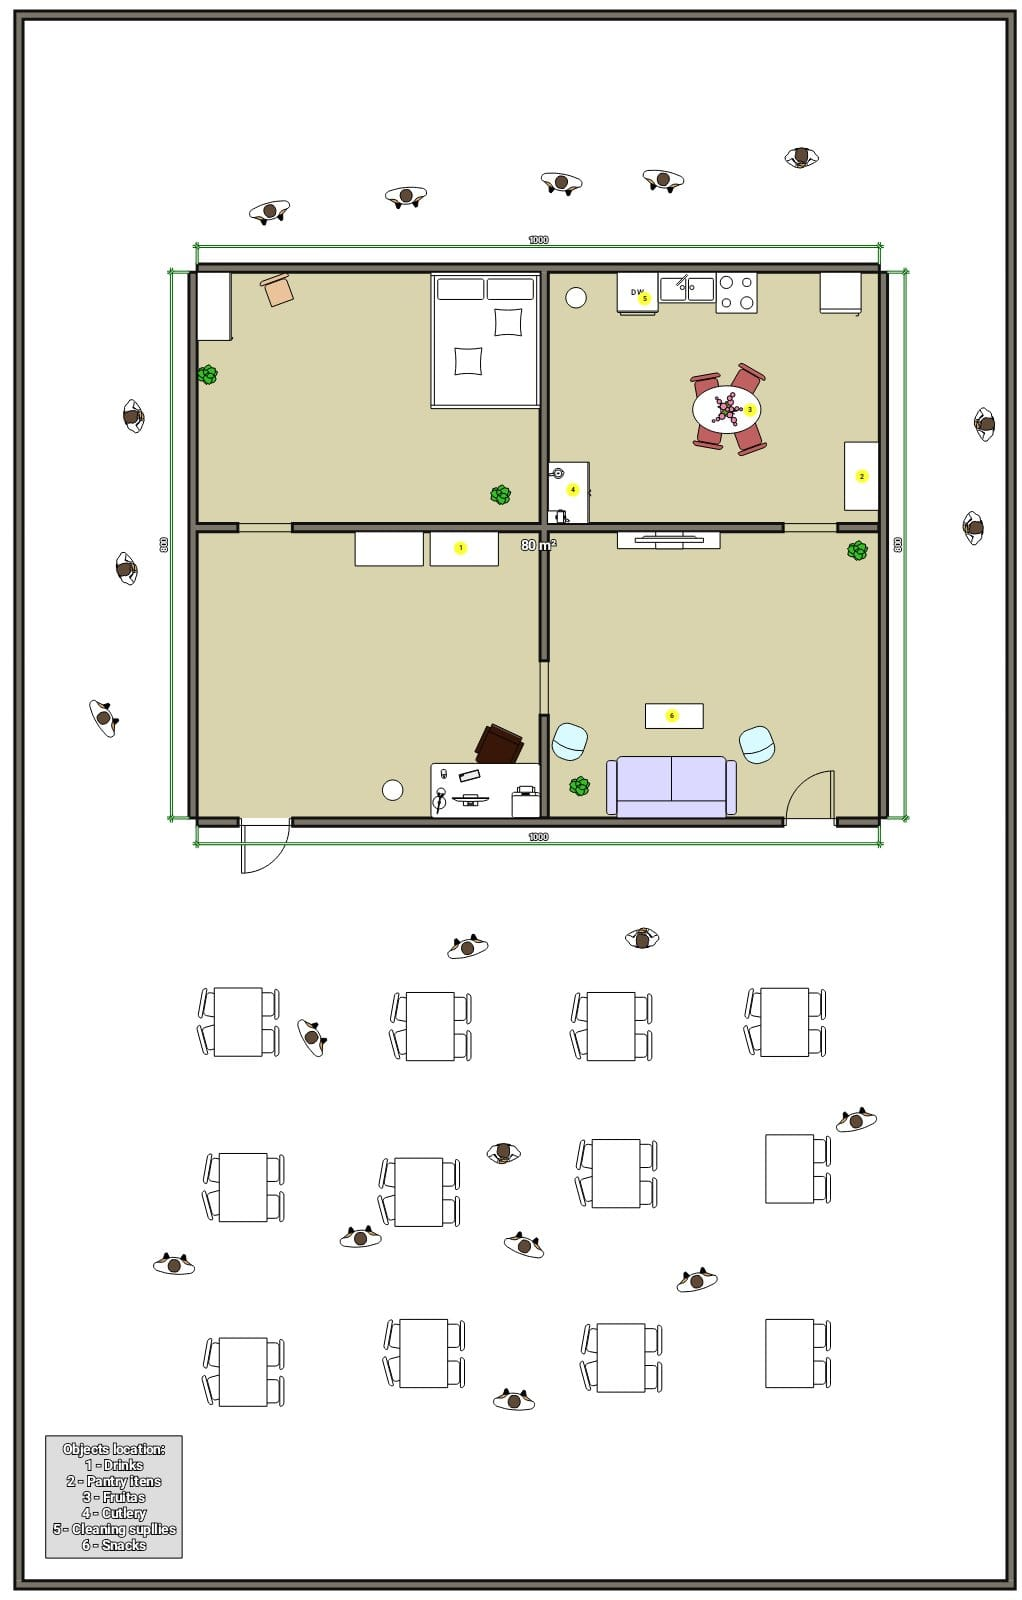
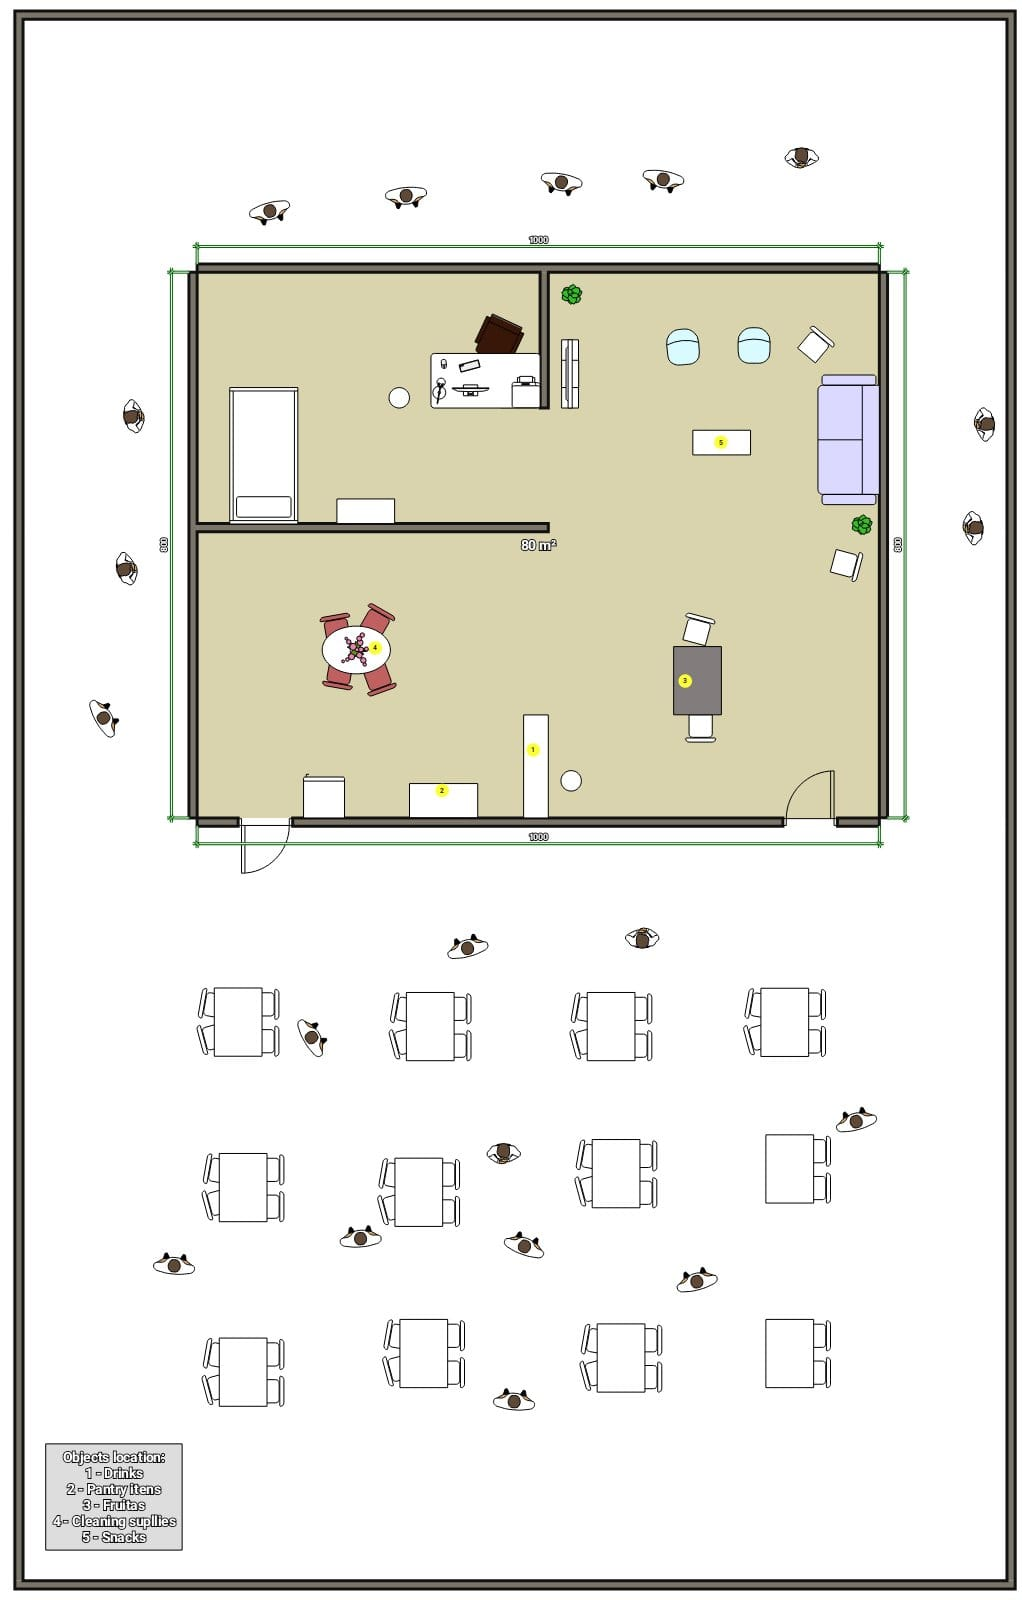
update images and readme

diff --git a/README.md b/README.md
@@ -27,12 +27,12 @@ Table of contents:
 | 14:00 | Warm-up        | PSWR           | S1 - MOR       | S2 - HK        | S2 - PH        | Award ceremony |
 | 14:30 | Warm-up        | PSWR           | S1 - MOR       | S2 - HK        | S2 - PH        | Award ceremony |
 | 15:00 | Warm-up        | PSWR           | S1 - MOR       |                |                | Award ceremony |
-| 15:30 | Warm-up        | PSWR           | S1 - MOR       | S2 - HK        | S2 - PH        | Award ceremony |
+| 15:30 | Warm-up        | Inspection     | S1 - MOR       | S2 - HK        | S2 - PH        | Award ceremony |
 | 16:00 | Warm-up        | Inspection     |                | S2 - HK        | S2 - PH        |                |
-| 16:30 | Warm-up        | Inspection     |                |                |                |                |
-| 17:00 | Warm-up        | Inspection     | S1 - PR        | S2 - HK        | S2 - Retry     |                |
-| 17:30 | Warm-up        | Inspection     | S1 - PR        | S2 - HK        | S2 - Retry     |                |
-| 18:00 | Team meating 1 | Team meating 2 | S1 - PR        |                |                |                |
+| 16:30 | Warm-up        | Inspection.    |                |                |                |                |
+| 17:00 | Warm-up        | Team meating 2 | S1 - PR        | S2 - HK        | S2 - Retry     |                |
+| 17:30 | Warm-up        |                | S1 - PR        | S2 - HK        | S2 - Retry     |                |
+| 18:00 | Team meating 1 | Opening ceremony| S1 - PR        |                |                |                |
 | 18:30 |                |                | S1 - PR        | S2 - HK        | S2 - Retry     |                |
 | 19:00 |                |                | S1 - PR        | S2 - HK        | S2 - Retry     |                |
 | 19:30 |                |                | S1 - PR        | Team meating 4 | Team meating 5 |                |
@@ -58,16 +58,16 @@ Table of contents:
 
 ## Teams
 
-|   | Names                  | Captain       |
-| - | ---------------------- | ------------- |
-| 1 | BahiaRT @Home          | To be defined |
-| 2 | Warthog Robotics @Home | To be defined |
-| 3 | UTBots@Home            | To be defined |
-| 4 | RoboFEI@Home           | To be defined |
-| 5 | FBots                  | To be defined |
-| 6 | RoboFEI@Work           | To be defined |
-| 7 | PQMEC@HOME             | To be defined |
-| 8 | PinguimBots@Home       | To be defined |
+|   | Names                  | Captain           |
+| - | ---------------------- | ----------------- |
+| 1 | BahiaRT @Home          | Tamir Amorim.     |
+| 2 | Warthog Robotics @Home | Rhayna Casado.    |
+| 3 | UTBots@Home            | João Fabro.       |
+| 4 | RoboFEI@Home           | Flora Aidar.      |
+| 5 | FBots                  | Jardel Dionizio.  |
+| 6 | RoboFEI@Work           | ----------------- |
+| 7 | PQMEC@HOME             | José Teles.       |
+| 8 | PinguimBots@Home       | kristofer Kappel. |
 
 
 ## Arena layout:
@@ -83,7 +83,7 @@ Table of contents:
 
 <table>
   <tr>
-    <td><img src="Arena/arena_2d.jpeg" /><br>Inspection</td>
+    <td><img src="Arena/arena_inspection.jpeg" /><br>Inspection</td>
   </tr>
   <tr>
     <td><img src="Arena/arena_2d.jpeg" /><br>Navigation and Follow Me</td>
@@ -159,8 +159,8 @@ Table of contents:
 <table>
   <tr>
     <td><img src="Objects/bag.jpeg" width="50%"/><br>Bag</td>
-    <td><img src="Objects/fruit.jpg" width="50%"/><br>Garbage Bin</td>
-    <td><img src="Objects/fruit.jpg" width="50%"/><br>Garbage Lid</td>
+    <td><img src="Objects/garbage_bin.jpeg" width="50%"/><br>Garbage Bin</td>
+    <td><img src="Objects/garbage_lid.jpeg" width="50%"/><br>Garbage Lid</td>
     <td><img src="Objects/fruit.jpg" width="50%"/><br>Garbage</td>
   </tr>
 <table>
